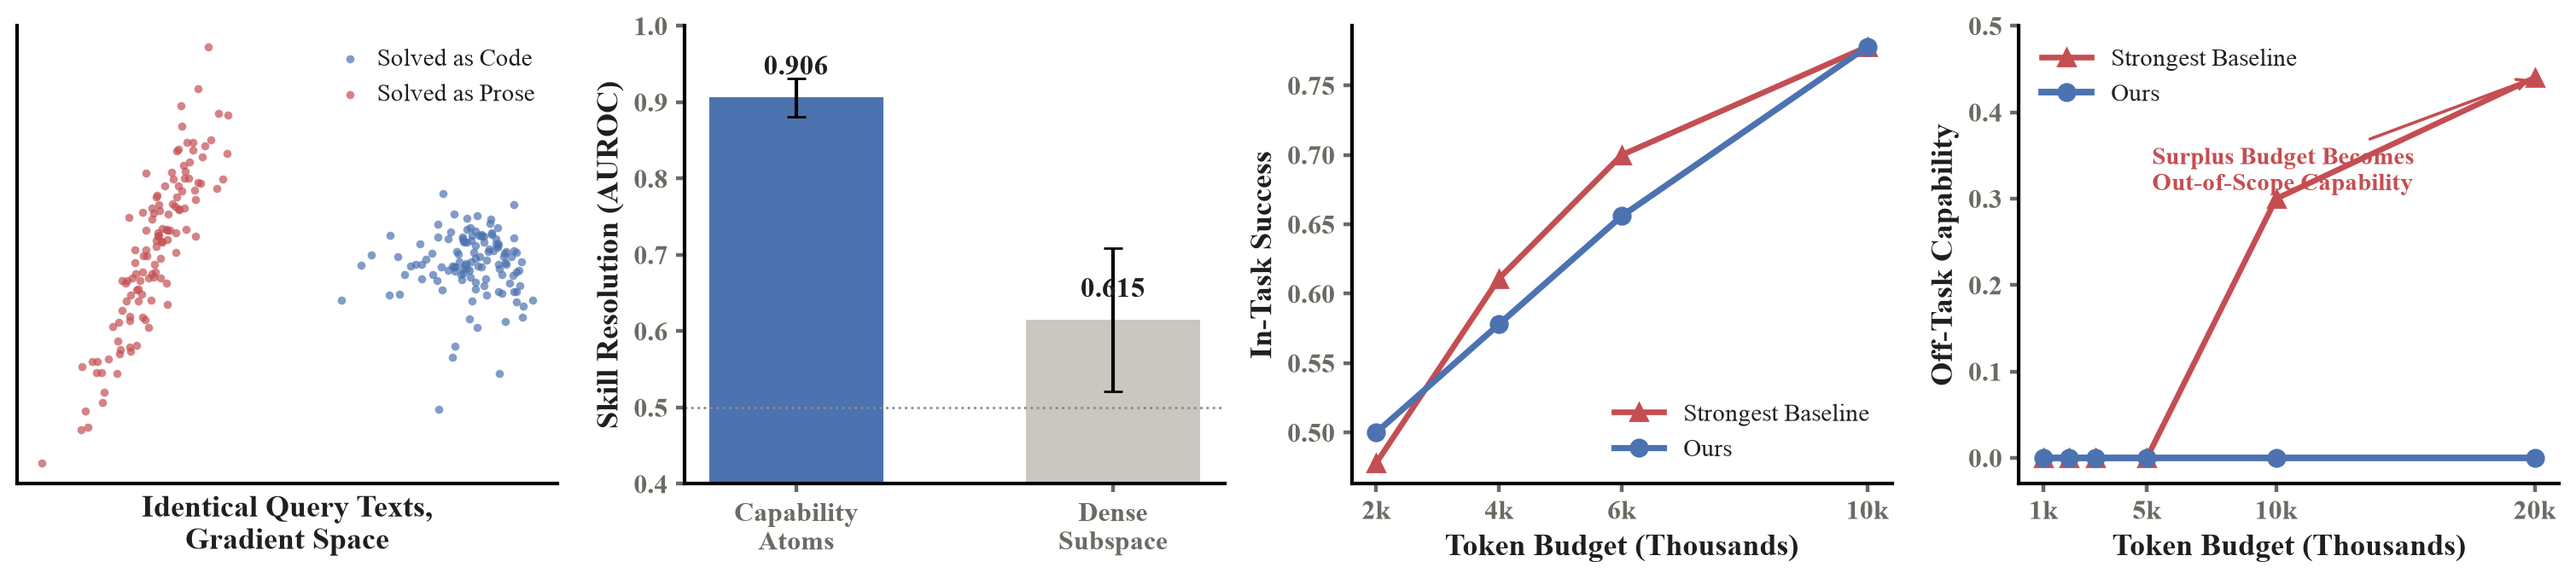
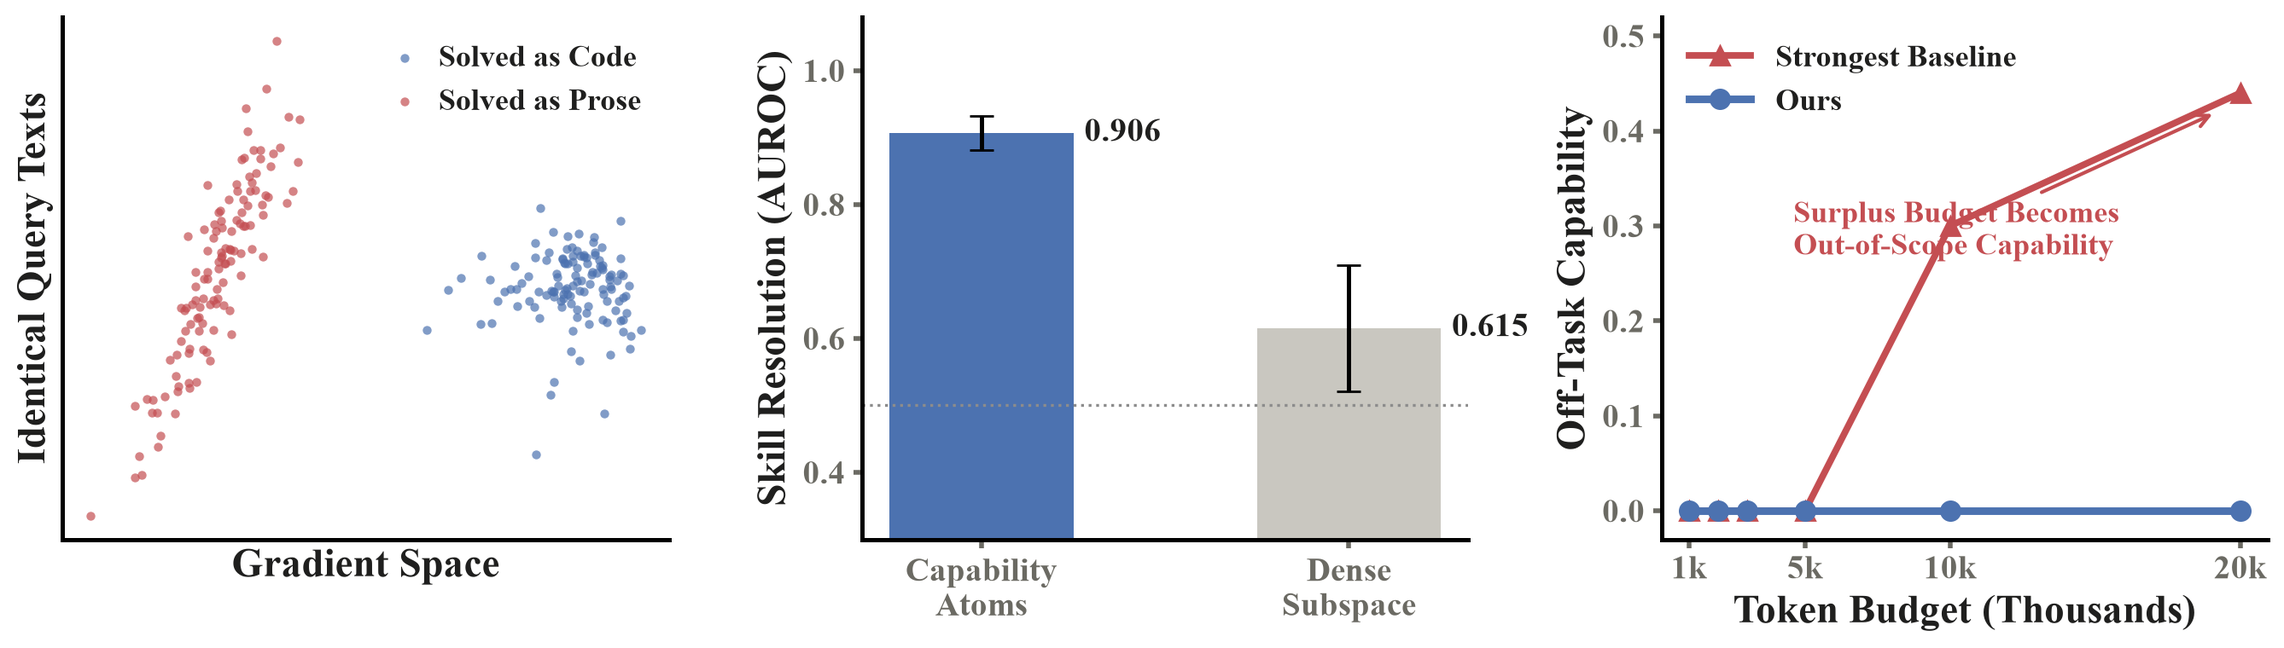
Fig 1 v2: 3 panels (growth panel removed until the speed advantage is real), bigger bold axes/ticks, occlusions fixed, caption cut to three sentences; intro/abstract budget-speed claims softened to match evidence

diff --git a/paper/sections/introduction.tex b/paper/sections/introduction.tex
@@ -33,24 +33,18 @@ distillation \citep{tang2026smartad, liu2025structured, kang2025distilling}
 refines how well each trace is imitated, yet even given a perfect
 boundary it neither controls nor measures what else the student absorbs,
 so equally accurate students silently carry large, unexamined capability
-beyond the job (Figure~\ref{fig:one}d).
+beyond the job (Figure~\ref{fig:one}c).
 
 \begin{figure}[t]
 \centering
 \includegraphics[width=\linewidth]{figs/fig1_story.png}
-\caption{Why both questions defeat current practice, and what answering
-them buys (all panels from logged runs). (a)~240 GSM8K queries solved as
-code (blue) or prose (red) share their text exactly, so any boundary drawn
-on text cannot separate them; their gradients separate perfectly.
-(b)~Sparse capability atoms resolve skills within one domain at AUROC
-$0.906$ where the dense gradient subspace reaches $0.615$: identifiability
-comes from sparsity, not from subspace geometry. (c)~In-task success
-versus token budget (0.8B student, 3 seeds): atom-based selection reaches
-each level with no more budget than the strongest influence baseline and
-leads at the smallest budgets. (d)~Off-task capability versus budget on
-the SQL-scoped task: every method attains in-task $1.0$ by 1k tokens, after
-which the baseline converts surplus budget into out-of-scope capability
-(residue $0.44$ at 20k) while ours remains at $0.000$ at every budget.}
+\caption{(a)~Identical query texts, solved in two styles, are
+inseparable to any function of the text but separate perfectly in gradient
+space. (b)~Sparse capability atoms resolve skills that dense gradient
+subspaces cannot ($0.906$ vs.\ $0.615$). (c)~With the specification
+in hand, surplus budget stops leaking: the strongest baseline converts it
+into out-of-scope capability while ours stays at $0.000$ at every
+budget.}}
 \label{fig:one}
 \end{figure}
 

diff --git a/paper/sections/abstract.tex b/paper/sections/abstract.tex
@@ -22,7 +22,6 @@ that behaves best on held-out specification queries, and the deployed
 agent ships with finite-sample certificates for both sides of the match.
 On a controlled five-domain suite, atom-based students match the strongest
 influence-based selection in-task at every budget while holding off-task
-capability at zero where that baseline leaks up to 77\% of it, and they
-reach target performance with a fraction of the token budget on scoped
-tasks. The pipeline transfers unchanged to agent benchmarks.
+capability at zero where that baseline leaks up to 77\% of it, and never
+spend budget outside the specification. The pipeline transfers unchanged to agent benchmarks.
 \end{abstract}
